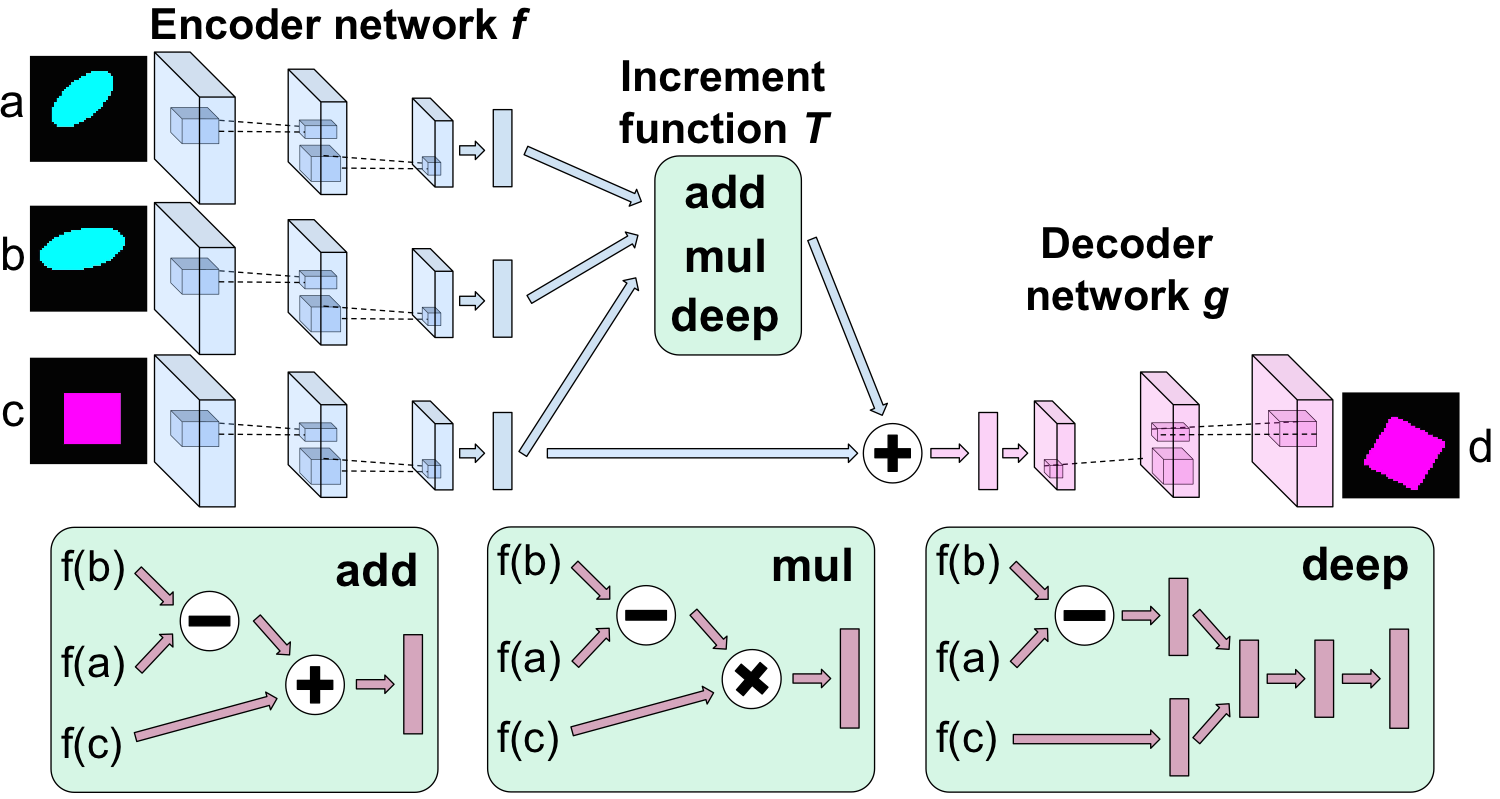
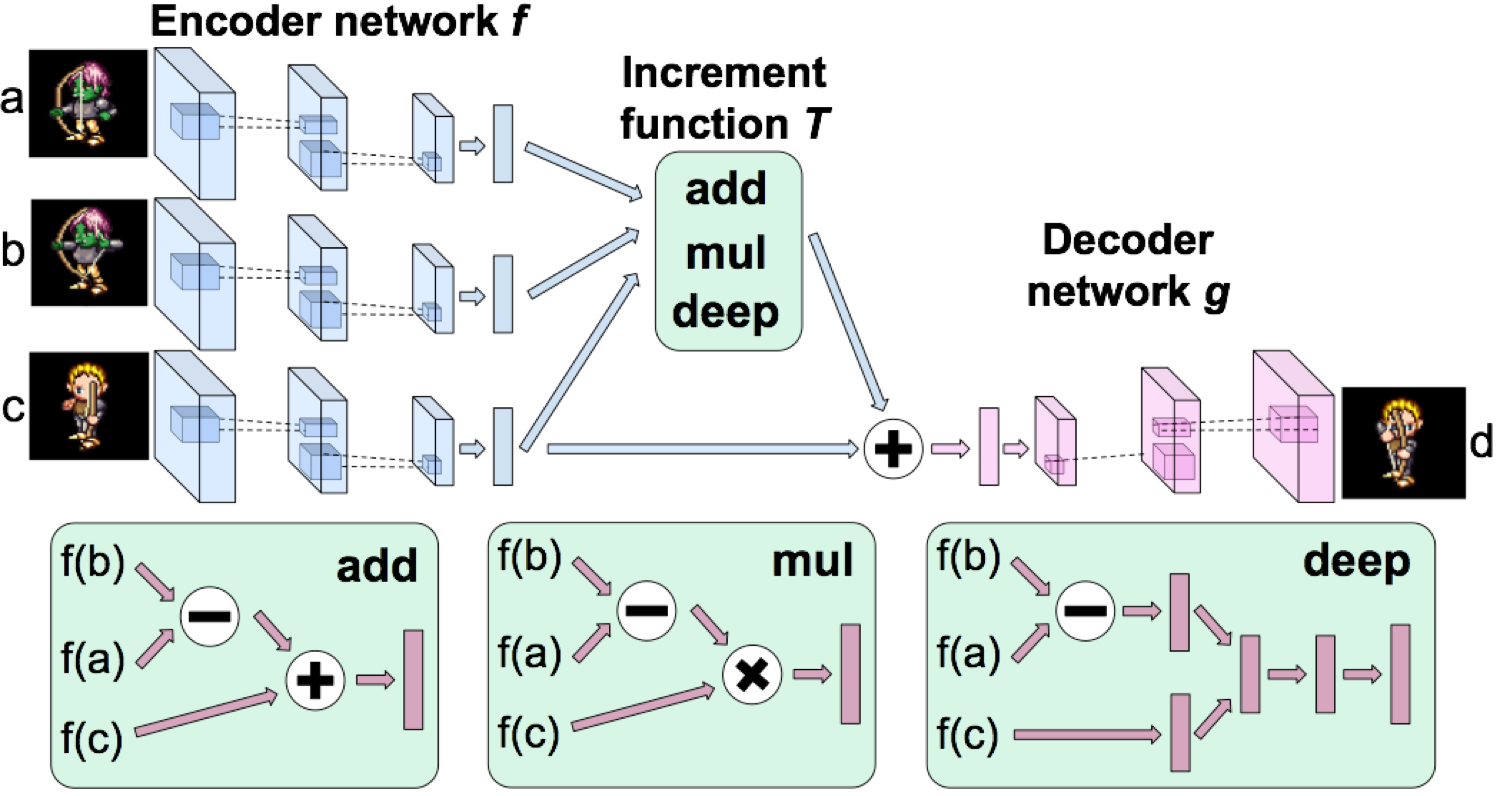
change optim, update sprite, edit loader

diff --git a/model/shape.py b/model/shape.py
@@ -3,11 +3,11 @@ import tensorflow as tf
 
 from .base import Model
 from loader import Loader
-from utils import merge, imsave
+from utils import merge, imsave, strfnow
 
 class ShapeAnalogy(Model):
   """Deep Visual Analogy Network."""
-  def __init__(self, sess, image_size=48, model_type="deep", 
+  def __init__(self, sess, image_size=48, model_type="deep",
                batch_size=25, dataset="shape"):
     """Initialize the parameters for an Deep Visual Analogy network.
 
@@ -26,7 +26,8 @@ class ShapeAnalogy(Model):
     self.loader = Loader(self.dataset, self.batch_size)
 
     # parameters used to save a checkpoint
-    self._attrs = ['batch_size']
+    self._attrs = ['batch_size', 'model_type', 'image_size']
+    self.options = ['rotate', 'scale', 'xpos', 'ypos']
 
     self.build_model()
 
@@ -74,9 +75,7 @@ class ShapeAnalogy(Model):
     else:
       raise Exception(" [!] Wrong model type : %s" % self.model_type)
 
-    g_input = T + f_c
-
-    dec_w1 = tf.get_variable("dec_w1", [g_input.get_shape()[-1], 1024])
+    dec_w1 = tf.get_variable("dec_w1", [T.get_shape()[-1], 1024])
     dec_w2 = tf.get_variable("dec_w2", [1024, 4096])
     dec_w3 = tf.get_variable("dec_w3", [4096, self.image_size * self.image_size * 3])
 
@@ -84,15 +83,15 @@ class ShapeAnalogy(Model):
     dec_b2 = tf.get_variable("dec_b2", [4096])
     dec_b3 = tf.get_variable("dec_b3", [self.image_size * self.image_size * 3])
 
-    self.g = f(m(f(m(f(m(T, dec_w1) + dec_b1), dec_w2) + dec_b2), dec_w3) + dec_b3)
+    self.g = f(m(f(m(f(m(T + f_c, dec_w1) + dec_b1), dec_w2) + dec_b2), dec_w3) + dec_b3)
 
     self.g_img = tf.reshape(self.g, [self.batch_size, self.image_size, self.image_size, 3])
     _ = tf.image_summary("g", self.g_img, max_images=5)
 
-    self.l = tf.nn.l2_loss(d - self.g)
+    self.l = tf.nn.l2_loss(d - self.g) / self.batch_size
     _ = tf.scalar_summary("loss", self.l)
 
-    self.r = tf.nn.l2_loss(f_d - f_c - T)
+    self.r = tf.nn.l2_loss(f_d - f_c - T) / self.batch_size
     _ = tf.scalar_summary("regularizer", self.r)
 
   def train(self, max_iter=450000,
@@ -113,38 +112,46 @@ class ShapeAnalogy(Model):
 
     self.step = tf.Variable(0, trainable=False)
 
-    self.loss = (self.l + self.alpha * self.r) / self.batch_size
+    self.loss = (self.l + self.alpha * self.r)
     _ = tf.scalar_summary("l_plus_r", self.loss)
 
     self.lr = tf.train.exponential_decay(self.learning_rate,
                                          global_step=self.step,
                                          decay_steps=100000,
                                          decay_rate=0.999)
-    self.optim = tf.train.MomentumOptimizer(self.lr, momentum=0.9) \
+    #self.optim = tf.train.MomentumOptimizer(self.lr, momentum=0.9) \
+    #                     .minimize(self.loss, global_step=self.step)
+    self.optim = tf.train.AdamOptimizer(self.lr, beta1=0.5) \
                          .minimize(self.loss, global_step=self.step)
+    #self.optim = tf.train.RMSPropOptimizer(self.lr, momentum=0.9, decay=0.95) \
+    #                     .minimize(self.loss, global_step=self.step)
 
     merged_sum = tf.merge_all_summaries()
     writer = tf.train.SummaryWriter("./logs", self.sess.graph_def)
 
     tf.initialize_all_variables().run()
-
     self.load(self.checkpoint_dir)
 
     start_time = time.time()
-    for step in xrange(self.max_iter):
-      if step % 1000  == 0:
-        self.save(checkpoint_dir)
+    start_iter = self.step.eval()
 
-      if step % 2  == 0:
-        feed = {self.a: self.loader.test_a,
-                self.b: self.loader.test_b,
-                self.c: self.loader.test_c,
-                self.d: self.loader.test_d}
+    #test_a, test_b, test_c, test_d = self.loader.tests['rotate']
+
+    for step in xrange(start_iter, start_iter + self.max_iter):
+      if step != 0 and step % 10000 == 0:
+        self.test(fixed=True)
+        self.save(checkpoint_dir, step)
+
+      if step % 5  == 1:
+        feed = {self.a: a,
+                self.b: b,
+                self.c: c,
+                self.d: d}
 
         summary_str, loss = self.sess.run([merged_sum, self.loss], feed_dict=feed)
         writer.add_summary(summary_str, step)
 
-        if step % 50 == 0:
+        if step % 50 == 1:
           print("Epoch: [%2d/%7d] time: %4.4f, loss: %.8f" % (step, self.max_iter, time.time() - start_time, loss))
 
       a, b, c, d = self.loader.next()
@@ -155,13 +162,24 @@ class ShapeAnalogy(Model):
               self.d: d}
       self.sess.run(self.optim, feed_dict=feed)
 
-  def test(self):
-    a, b, c, d = self.loader.next()
+  def test(self, name="test", options=None, fixed=False):
+    if options == None:
+      options = self.options
 
-    feed = {self.a: a,
-            self.b: b,
-            self.c: c,
-            self.d: d}
+    sample_dir = "samples"
+    t = strfnow()
 
-    g_img = self.sess.run(self.g_img, feed_dict=feed)
-    imsave("test.png", merge(a, b, c, d, g_img))
+    for option in options:
+      if fixed:
+        a, b, c, d = self.loader.tests['rotate']
+      else:
+        a, b, c, d = self.loader.next(set_option=option)
+      fname = "%s/%s_option:%s_time:%s.png" % (sample_dir, name, option, t)
+
+      feed = {self.a: a,
+              self.b: b,
+              self.c: c,
+              self.d: d}
+
+      g_img = self.sess.run(self.g_img, feed_dict=feed)
+      imsave(fname, merge(a, b, c, d, g_img))

diff --git a/model/sprite.py b/model/sprite.py
@@ -23,7 +23,7 @@ class SpriteAnalogy(Model):
     self.model_type = model_type
     self.batch_size = batch_size
     self.dataset = dataset
-    self.loader = Loader(self.dataset, self.batch_size)
+    #self.loader = Loader(self.dataset, self.batch_size)
 
     # parameters used to save a checkpoint
     self._attrs = ['max_iter', 'batch_size', 'alpha', 'learning_rate']
@@ -31,47 +31,35 @@ class SpriteAnalogy(Model):
     self.build_model()
 
   def build_model(self):
-    self.a = tf.placeholder(tf.float32, [None, self.image_size, self.image_size, 3])
-    self.b = tf.placeholder(tf.float32, [None, self.image_size, self.image_size, 3])
-    self.c = tf.placeholder(tf.float32, [None, self.image_size, self.image_size, 3])
-    self.d = tf.placeholder(tf.float32, [None, self.image_size, self.image_size, 3])
-
-    a = tf.reshape(self.a, [self.batch_size, self.image_size * self.image_size * 3])
-    b = tf.reshape(self.b, [self.batch_size, self.image_size * self.image_size * 3])
-    c = tf.reshape(self.c, [self.batch_size, self.image_size * self.image_size * 3])
-    d = tf.reshape(self.d, [self.batch_size, self.image_size * self.image_size * 3])
-
-    h1 = tf.nn.relu(conv2d(a, 64, 5, 5, 2, 2, name='e_h1_conv'))
-    h2 = tf.nn.relu(conv2d(a, 64, 5, 5, 2, 2, name='e_h2_conv'))
+    self.a = tf.placeholder(tf.float32, [self.batch_size, self.image_size, self.image_size, 3])
+    self.b = tf.placeholder(tf.float32, [self.batch_size, self.image_size, self.image_size, 3])
+    self.c = tf.placeholder(tf.float32, [self.batch_size, self.image_size, self.image_size, 3])
+    self.d = tf.placeholder(tf.float32, [self.batch_size, self.image_size, self.image_size, 3])
 
     f = tf.nn.relu
     m = tf.matmul
 
-    f_a = m(f(m(f(m(a, enc_w1) + enc_b1), enc_w2) + enc_b2), enc_w3) + enc_b3
-    f_b = m(f(m(f(m(b, enc_w1) + enc_b1), enc_w2) + enc_b2), enc_w3) + enc_b3
-    f_c = m(f(m(f(m(c, enc_w1) + enc_b1), enc_w2) + enc_b2), enc_w3) + enc_b3
-    f_d = m(f(m(f(m(d, enc_w1) + enc_b1), enc_w2) + enc_b2), enc_w3) + enc_b3
+    with tf.variable_scope("encoder") as scope:
+      enc_w1 = tf.get_variable("enc_w1", [4608, 2048])
+      enc_w2 = tf.get_variable("enc_w2", [2048, 512])
 
-    if self.model_type == "add":
-      T = (f_b - f_a)
-    elif self.model_type == "dis":
-      pass
-    elif self.model_type == "add+cls":
-      top = f_a - f_c + f_d
-    elif self.model_type == "dis+cls":
-      T_input = tf.concat(1, [f_b - f_a, f_c])
+      enc_b1 = tf.get_variable("enc_b1", [2048])
+      enc_b2 = tf.get_variable("enc_b2", [512])
 
-      deep_w1 = tf.get_variable("deep_w1", [1024, 512])
-      deep_w2 = tf.get_variable("deep_w2", [512, 256])
-      deep_w3 = tf.get_variable("deep_w3", [256, 512])
+      conv_a = tf.reshape(f(conv2d(f(conv2d(self.a, 64, name="conv1")), 32, name="conv2")), [self.batch_size, -1])
+      f_a = (m(f(m(conv_a, enc_w1) + enc_b1), enc_w2) + enc_b2)
 
-      deep_b1 = tf.get_variable("deep_b1", [512])
-      deep_b2 = tf.get_variable("deep_b2", [256])
-      deep_b3 = tf.get_variable("deep_b3", [512])
+      scope.reuse_variables()
 
-      T = f(m(f(m(f(m(T_input, deep_w1) + deep_b1), deep_w2) + deep_b2), deep_w3) + deep_b3)
-    else:
-      raise Exception(" [!] Wrong model type : %s" % self.model_type)
+      conv_b = tf.reshape(f(conv2d(f(conv2d(self.b, 64, name="conv1")), 32, name="conv2")), [self.batch_size, -1])
+      f_b = (m(f(m(conv_b, enc_w1) + enc_b1), enc_w2) + enc_b2)
+      conv_c = tf.reshape(f(conv2d(f(conv2d(self.c, 64, name="conv1")), 32, name="conv2")), [self.batch_size, -1])
+      f_c = (m(f(m(conv_c, enc_w1) + enc_b1), enc_w2) + enc_b2)
+      conv_d = tf.reshape(f(conv2d(f(conv2d(self.d, 64, name="conv1")), 32, name="conv2")), [self.batch_size, -1])
+      f_d = (m(f(m(conv_d, enc_w1) + enc_b1), enc_w2) + enc_b2)
+
+    # Transform
+    T = f_b - f_a
 
     g_input = T + f_c
 

diff --git a/loader.py b/loader.py
@@ -3,13 +3,14 @@ import scipy.io
 import scipy.misc
 import numpy as np
 from time import gmtime, strftime
-from numpy.random import choice, randint
+from numpy.random import choice
 
 class Loader(object):
 
   def __init__(self, dataset, batch_size):
     self.dataset = dataset
     self.batch_size = batch_size
+    self.options = ['rotate', 'scale', 'xpos', 'ypos']
 
     if dataset == "shape":
       mat_fname = "shapes48.mat"
@@ -43,19 +44,22 @@ class Loader(object):
       self.train_pairs = np.array(zip(*np.nonzero(pair_matrix)))
       self.test_pairs = np.array(zip(*(pair_matrix == 0)))
 
-      self.test_a, self.test_b, self.test_c, self.test_d = self.next_test()
+      self.tests = {}
+      for option in self.options:
+        test_a, test_b, test_c, test_d = self.next_test(set_option=option)
+        self.tests[option] = [test_a, test_b, test_c, test_d]
 
     elif dataset == "sprites":
       pass
 
-  def next(self):
-    return self.get_set_from_pairs(self.train_pairs)
+  def next(self, set_option=None):
+    return self.get_set_from_pairs(self.train_pairs, set_option)
 
-  def next_test(self):
-    return self.get_set_from_pairs(self.test_pairs)
+  def next_test(self, set_option=None):
+    return self.get_set_from_pairs(self.test_pairs, set_option)
 
-  def get_set_from_pairs(self, pairs):
-    idxes = choice(range(len(pairs)), 25)
+  def get_set_from_pairs(self, pairs, set_option):
+    idxes = choice(range(len(pairs)), self.batch_size)
 
     cur_pairs = pairs[idxes]
     cur_pairs_idx1 = cur_pairs[:,0]
@@ -89,9 +93,12 @@ class Loader(object):
     ypos3 = default_ypos2
     ypos4 = default_ypos2
 
-    to_change = randint(4)
+    if set_option != None:
+      to_change = set_option
+    else:
+      to_change = choice(self.options)
 
-    if to_change == 0: # change angle
+    if to_change == "rotate":
       offset = choice(range(-2, 3), self.batch_size)
 
       angle1 = choice(self.angle, self.batch_size)
@@ -103,7 +110,7 @@ class Loader(object):
       angle4 = angle3 + offset
       angle4[angle4 < 0] += self.angle
       angle4[angle4 >= self.angle] -= self.angle
-    elif to_change == 1: # change scale
+    elif to_change == "scale":
       offset = choice(range(-1, 2), self.batch_size)
 
       scale1 = choice(self.scale, self.batch_size)
@@ -119,7 +126,7 @@ class Loader(object):
       scale3[under_idx] = choice(range(1, self.scale), np.sum(under_idx))
       scale3[upper_idx] = choice(range(0, self.scale - 1), np.sum(upper_idx))
       scale4 = scale3 + offset
-    elif to_change == 2: # change xpos
+    elif to_change == "xpos":
       offset = choice(range(-1, 2), self.batch_size)
 
       xpos1 = choice(self.xpos, self.batch_size)
@@ -135,7 +142,7 @@ class Loader(object):
       xpos3[under_idx] = choice(range(1, self.xpos), np.sum(under_idx))
       xpos3[upper_idx] = choice(range(0, self.xpos - 1), np.sum(upper_idx))
       xpos4 = xpos3 + offset
-    else: # change ypos
+    elif to_change == "ypos":
       offset = choice(range(-1, 2), self.batch_size)
 
       ypos1 = choice(self.ypos, self.batch_size)
@@ -151,6 +158,8 @@ class Loader(object):
       ypos3[under_idx] = choice(range(1, self.ypos), np.sum(under_idx))
       ypos3[upper_idx] = choice(range(0, self.ypos - 1), np.sum(upper_idx))
       ypos4 = ypos3 + offset
+    else:
+      raise Exception(" [!] Wrong option %s" % to_change)
     
     color1, shape1 = np.unravel_index(cur_pairs_idx1, [self.color, self.shape])
     color2, shape2 = np.unravel_index(cur_pairs_idx2, [self.color, self.shape])

diff --git a/utils.py b/utils.py
@@ -1,18 +1,28 @@
 import pprint
 import numpy as np
+import scipy.misc
+from time import gmtime, strftime
 
 pp = pprint.PrettyPrinter()
 
+strfnow = lambda: strftime("%Y-%m-%d %H:%M:%S", gmtime())
+
 def merge(*images):
+  images = list(images)
+  # For difference between target and inferenced image
+  images.append(abs(images[-2] - images[-1]))
+
   h, w = images[0].shape[1], images[0].shape[2]
-  h_count, w_count = 4, len(images[0])
+  h_count, w_count = len(images), len(images[0])
   img = np.zeros((h * h_count, w * w_count, 3))
 
-  for idx, image_set in enumerate(zip(*images)):
-    import ipdb; ipdb.set_trace() 
+  for idx, image_set in enumerate(zip(*(images))):
     for jdx, image in enumerate(image_set):
+      image[[0,-1],:,:]=1
+      image[:,[0,-1],:]=1
       img[jdx*h:jdx*h + h, idx*w:idx*w + w, :] = image
   return img
 
 def imsave(path, image):
+  print(" [*] Save %s" % path)
   return scipy.misc.imsave(path, image)

diff --git a/model/base.py b/model/base.py
@@ -15,7 +15,7 @@ class Model(object):
         model_dir += "_%s:%s" % (attr, getattr(self, attr))
     return model_dir
 
-  def save(self, checkpoint_dir):
+  def save(self, checkpoint_dir, global_step=None):
     self.saver = tf.train.Saver()
 
     print(" [*] Saving checkpoints...")
@@ -25,7 +25,8 @@ class Model(object):
     checkpoint_dir = os.path.join(checkpoint_dir, model_dir)
     if not os.path.exists(checkpoint_dir):
       os.makedirs(checkpoint_dir)
-    self.saver.save(self.sess, os.path.join(checkpoint_dir, model_name))
+    self.saver.save(self.sess, 
+        os.path.join(checkpoint_dir, model_name), global_step=global_step)
 
   def load(self, checkpoint_dir):
     self.saver = tf.train.Saver()

diff --git a/model/ops.py b/model/ops.py
@@ -8,7 +8,6 @@ def conv2d(input_, output_dim,
   with tf.variable_scope(name):
     w = tf.get_variable('w', [k_h, k_w, input_.get_shape()[-1], output_dim],
               initializer=tf.truncated_normal_initializer(stddev=stddev))
-    import ipdb; ipdb.set_trace() 
     conv = tf.nn.conv2d(input_, w, strides=[1, d_h, d_w, 1], padding='SAME')
 
     biases = tf.get_variable('biases', [output_dim], initializer=tf.constant_initializer(0.0))

diff --git a/README.md b/README.md
@@ -54,13 +54,13 @@ To test a model with `sprite` dataset:
 Results
 -------
 
-![model example](./assets/model_example.png)
+Result of analogy transformations of `shape` dataset
+
+![training in progress](./assets/results_160212.jpg)
+
+Result of analogy transformations of `sprite` dataset
 
 (in progress)
-
-Analogy predictions made by L_deep in the middle of training of shape datasets (epoch: 237000/ 450000)
-
-![training in progress](./assets/shape_training_160211.png)
 
 
 Training details
